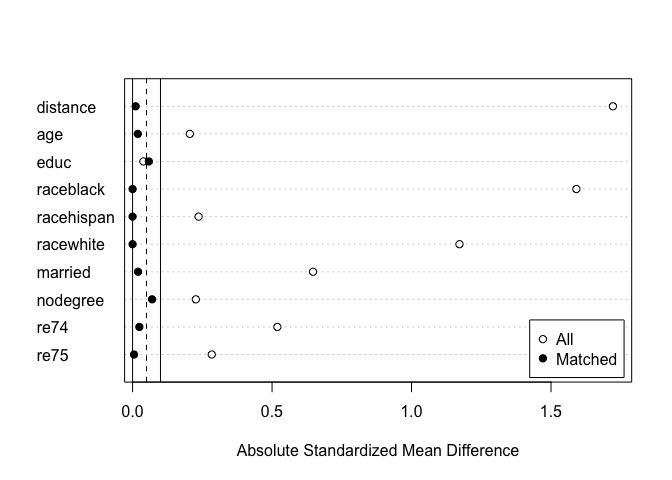
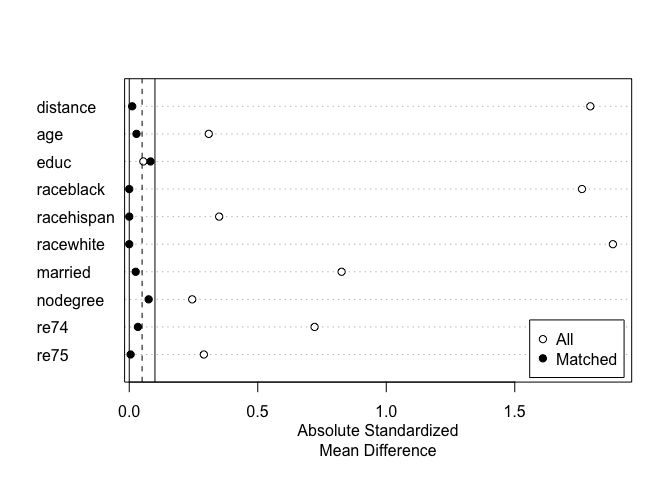
README updates

diff --git a/README.md b/README.md
@@ -24,24 +24,22 @@ with a propensity score caliper and assessing overlap and balance:
 library("MatchIt")
 data("lalonde", package = "MatchIt")
 
-#Nearest neighbor PS matching with replacement and a caliper
-m.out <- matchit(treat ~ age + educ + race + married + nodegree +
-                     re74 + re75, data = lalonde, 
-                 ratio = 2, caliper = .025)
+# Nearest neighbor PS matching with replacement and a caliper
+m.out <- matchit(treat ~ age + educ + race + married + nodegree + re74 + re75, data = lalonde, ratio = 2, caliper = 0.025)
 ```
 
 Printing the `MatchIt` object provides details of the kind of matching
 performed.
 
 ``` r
-print(m.out)
+m.out
 ```
 
     #> A matchit object
     #>  - method: 2:1 nearest neighbor matching without replacement
-    #>  - distance: Propensity score [matching, caliper]
-    #>               - estimated with logistic regression
-    #>  - caliper: 0.025 SD
+    #>  - distance: Propensity score [caliper]
+    #>              - estimated with logistic regression
+    #>  - caliper: <distance> (0.007)
     #>  - number of obs.: 614 (original), 234 (matched)
     #>  - target estimand: ATT
     #>  - covariates: age, educ, race, married, nodegree, re74, re75
@@ -50,7 +48,7 @@ We can view propensity score overlap and see which observations were
 matched and unmatched using a jitter plot:
 
 ``` r
-#Checking for PS overlap
+# Checking for PS overlap
 plot(m.out, type = "jitter", interactive = FALSE)
 ```
 
@@ -64,7 +62,7 @@ We can check covariate balance for the original and matched samples
 using `summary()`:
 
 ``` r
-#Checking balance before and after matching:
+# Checking balance before and after matching:
 summary(m.out)
 ```
 
@@ -74,51 +72,52 @@ summary(m.out)
     #>     re74 + re75, data = lalonde, caliper = 0.025, ratio = 2)
     #> 
     #> Summary of Balance for All Data:
-    #>            Means Treated Means Control Std. Mean Diff. eCDF Med eCDF Mean eCDF Max
-    #> distance          0.5774        0.1822          1.7219   0.3964    0.3774   0.6444
-    #> age              25.8162       28.0303         -0.2053   0.0827    0.0813   0.1577
-    #> educ             10.3459       10.2354          0.0387   0.0228    0.0347   0.1114
-    #> raceblack         0.8432        0.2028          1.5910   0.6404    0.6404   0.6404
-    #> racehispan        0.0595        0.1422         -0.2366   0.0827    0.0827   0.0827
-    #> racewhite         0.0973        0.6550         -1.1719   0.5577    0.5577   0.5577
-    #> married           0.1892        0.5128         -0.6467   0.3236    0.3236   0.3236
-    #> nodegree          0.7081        0.5967          0.2268   0.1114    0.1114   0.1114
-    #> re74           2095.5737     5619.2365         -0.5190   0.2335    0.2248   0.4470
-    #> re75           1532.0553     2466.4844         -0.2838   0.1355    0.1342   0.2876
+    #>            Means Treated Means Control Std. Mean Diff. Var. Ratio eCDF Mean eCDF Max
+    #> distance          0.5774        0.1822          1.7941     0.9211    0.3774   0.6444
+    #> age              25.8162       28.0303         -0.3094     0.4400    0.0813   0.1577
+    #> educ             10.3459       10.2354          0.0550     0.4959    0.0347   0.1114
+    #> raceblack         0.8432        0.2028          1.7615          .    0.6404   0.6404
+    #> racehispan        0.0595        0.1422         -0.3498          .    0.0827   0.0827
+    #> racewhite         0.0973        0.6550         -1.8819          .    0.5577   0.5577
+    #> married           0.1892        0.5128         -0.8263          .    0.3236   0.3236
+    #> nodegree          0.7081        0.5967          0.2450          .    0.1114   0.1114
+    #> re74           2095.5737     5619.2365         -0.7211     0.5181    0.2248   0.4470
+    #> re75           1532.0553     2466.4844         -0.2903     0.9563    0.1342   0.2876
     #> 
     #> 
     #> Summary of Balance for Matched Data:
-    #>            Means Treated Means Control Std. Mean Diff. eCDF Med eCDF Mean eCDF Max
-    #> distance          0.4962        0.4937          0.0110   0.0000    0.0043   0.0392
-    #> age              25.3627       25.5637         -0.0186   0.0711    0.0800   0.2157
-    #> educ             10.2549       10.4216         -0.0584   0.0196    0.0237   0.0784
-    #> raceblack         0.7157        0.7157          0.0000   0.0000    0.0000   0.0000
-    #> racehispan        0.1078        0.1078          0.0000   0.0000    0.0000   0.0000
-    #> racewhite         0.1765        0.1765          0.0000   0.0000    0.0000   0.0000
-    #> married           0.2059        0.2157         -0.0196   0.0098    0.0098   0.0098
-    #> nodegree          0.6765        0.6422          0.0699   0.0343    0.0343   0.0343
-    #> re74           2409.1384     2573.6987         -0.0242   0.0147    0.0528   0.2598
-    #> re75           1704.2015     1721.3424         -0.0052   0.0294    0.0391   0.1275
+    #>            Means Treated Means Control Std. Mean Diff. Var. Ratio eCDF Mean eCDF Max Std. Pair Dist.
+    #> distance          0.4962        0.4937          0.0115     1.0104    0.0043   0.0392          0.0131
+    #> age              25.3627       25.5637         -0.0281     0.4399    0.0800   0.2157          1.3150
+    #> educ             10.2549       10.4216         -0.0829     0.6076    0.0237   0.0784          1.0060
+    #> raceblack         0.7157        0.7157          0.0000          .    0.0000   0.0000          0.0379
+    #> racehispan        0.1078        0.1078          0.0000          .    0.0000   0.0000          0.1439
+    #> racewhite         0.1765        0.1765          0.0000          .    0.0000   0.0000          0.1364
+    #> married           0.2059        0.2157         -0.0250          .    0.0098   0.0098          0.6190
+    #> nodegree          0.6765        0.6422          0.0755          .    0.0343   0.0343          0.7832
+    #> re74           2409.1384     2573.6987         -0.0337     1.4815    0.0528   0.2598          0.7939
+    #> re75           1704.2015     1721.3424         -0.0053     1.6335    0.0391   0.1275          0.8505
     #> 
     #> Percent Balance Improvement:
-    #>            Std. Mean Diff. eCDF Med eCDF Mean eCDF Max
-    #> distance              99.4    100.0      98.9     93.9
-    #> age                   90.9     14.1       1.6    -36.7
-    #> educ                 -50.8     13.9      31.6     29.6
-    #> raceblack            100.0    100.0     100.0    100.0
-    #> racehispan           100.0    100.0     100.0    100.0
-    #> racewhite            100.0    100.0     100.0    100.0
-    #> married               97.0     97.0      97.0     97.0
-    #> nodegree              69.2     69.2      69.2     69.2
-    #> re74                  95.3     93.7      76.5     41.9
-    #> re75                  98.2     78.3      70.8     55.7
+    #>            Std. Mean Diff. Var. Ratio eCDF Mean eCDF Max
+    #> distance              99.4       87.3      98.9     93.9
+    #> age                   90.9       -0.0       1.6    -36.7
+    #> educ                 -50.8       29.0      31.6     29.6
+    #> raceblack            100.0          .     100.0    100.0
+    #> racehispan           100.0          .     100.0    100.0
+    #> racewhite            100.0          .     100.0    100.0
+    #> married               97.0          .      97.0     97.0
+    #> nodegree              69.2          .      69.2     69.2
+    #> re74                  95.3       40.2      76.5     41.9
+    #> re75                  98.2     -998.1      70.8     55.7
     #> 
     #> Sample Sizes:
-    #>           Control Treated
-    #> All           429     185
-    #> Matched       132     102
-    #> Unmatched     297      83
-    #> Discarded       0       0
+    #>               Control Treated
+    #> All            429.       185
+    #> Matched (ESS)  119.59     102
+    #> Matched        132.       102
+    #> Unmatched      297.        83
+    #> Discarded        0.         0
 
 At the top is balance for the original sample. Below that is balance in
 the matched sample, followed by the percent reduction in imbalance and
@@ -128,7 +127,7 @@ mean differences in a Love plot for a clean, visual display of balance
 across the sample:
 
 ``` r
-#Plot balance
+# Plot balance
 plot(summary(m.out))
 ```
 
